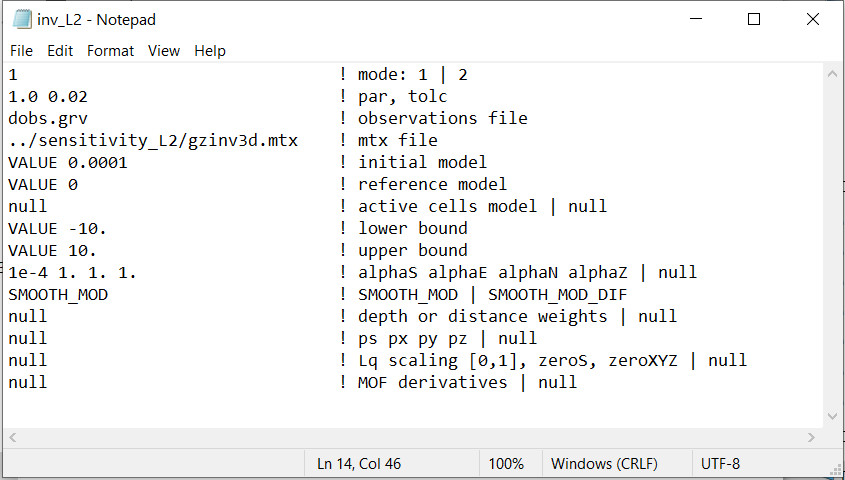
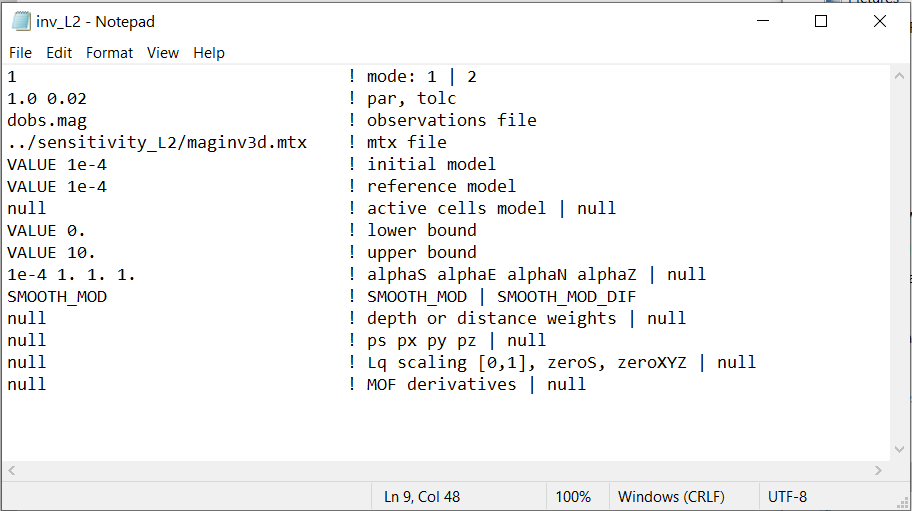
Finalize example

diff --git a/conf.py b/conf.py
@@ -35,9 +35,7 @@ sys.path.append(os.path.abspath('./_ext'))
 extensions = [
     'sphinx.ext.mathjax',
     'sphinxcontrib.bibtex',
-    'edit_on_github',
-    'purpose',
-    'example'
+    'edit_on_github'
 ]
 
 # Number figures

diff --git a/content/example/inv.rst b/content/example/inv.rst
@@ -5,16 +5,16 @@
 Inversion
 =========
 
-Here the code **gzinv3d_v60.exe** invert synthetic gravity anomaly data to recover a density contrast model. We perform both a smooth and a sparse inversion. We use the same data that were computed in :ref:`forward modeling example <example_fwd>`. Gaussian noise were added to these data with a standard deviation of 5e-4 mgal. Uncertainties of 5e-4 mgal were assigned to all data
+Here the code **maginv3d_v60.exe** invert synthetic magntic data to recover a susceptibility model. We perform both a smooth and a sparse inversion. We use the same data that were computed in :ref:`forward modeling example <example_fwd>`. Gaussian noise were added to these data with a standard deviation of 0.5 nT. Uncertainties of 0.5 nT were assigned to all data
 
 Before running this example, you may want to do the following:
 
-     - `Download and open the zip folder containing the entire grav3d example <https://github.com/ubcgif/grav3d/raw/master/assets/grav3d_example.zip>`__ (if not done already)
-     - Learn how to :ref:`run gzinv3d_v60 and learn the format of the input files <gzinv3d>`
+     - `Download and open the zip folder containing the entire mag3d example <https://github.com/ubcgif/mag3d/raw/master/assets/mag3d_example.zip>`__ (if not done already)
+     - Learn how to :ref:`run maginv3d_v60 and learn the format of the input files <maginv3d>`
 
 
 
-.. important:: Since the sensitivities output by **gzsen3d_v60.exe** produce a large file, we have not provided them in the zip file. You need to complete the :ref:`compute sensitivities <example_sensitivity>` example to run the inversion.
+.. important:: Since the sensitivities output by **magsen3d_v60.exe** produce a large file, we have not provided them in the zip file. You need to complete the :ref:`compute sensitivities <example_sensitivity>` example to run the inversion.
 
 
 Smooth Inversion

diff --git a/content/example/fwd.rst b/content/example/fwd.rst
@@ -1,19 +1,21 @@
 .. _example_fwd:
 
 
+.. note:: This example has been developed to demonstrate functionality specific to v6.0. The example can be completed using v5.0, however some functionality may not exist in v5.0 and the format of certain input files may differ slightly.
+
 Forward Modeling
 ================
 
-Here the code **gzfor3d.exe** is used to forward model the gravity anomaly for the mesh and density contrast model provided. We consider a ground-based survey with a uniform station spacing of 40 m.
+Here the code **magfor3d_v60.exe** is used to forward model the magnetic anomaly for the mesh and susceptibility model provided. We consider an airborne survey with a uniform station spacing of 40 m and a flight height of 30 m. The inclination, declination and background field intensity are 60 degrees, 25 degrees and 50,000 nT, respectively.
 
 Files relevant to this part of the example are in the sub-folder *fwd*. We used the same model that was created in the :ref:`create model <example_model>` section. Before running this example, you may want to do the following:
 
-	- `Download and open the zip folder containing the entire grav3d example <https://github.com/ubcgif/grav3d/raw/master/assets/grav3d_example.zip>`__ (if not done already)
-	- Learn how to run :ref:`gzfor3d<gzfor3d>`
+	- `Download and open the zip folder containing the entire mag3d example <https://github.com/ubcgif/mag3d/raw/master/assets/mag3d_example.zip>`__ (if not done already)
+	- Learn how to run :ref:`magfor3d_v60 <magfor3d>`
 	- There is no input file
 
 
-The resulting gravity anomaly (mgal) is shown below. According to the convention used by *grav3d*, a positive density contrast results in a positive gravity anomaly.
+The total magnetic intensity anomaly (nT) is shown below.
 
 
 .. figure:: images/fwd_anomaly.png

diff --git a/content/example/sensitivity.rst b/content/example/sensitivity.rst
@@ -6,12 +6,12 @@
 Computing Sensitivities
 =======================
 
-Here the code **gzsen3d_v60.exe** is used to compute and output the sensitivities for use in the inversion. Here, we generate we use the input file **sensitivity_L2.inp** to generate sensitivities for a standard smooth inversion. We then use the input file **sensitivity_sparse.inp** to generate sensitivities that can be used for sparse inversion.
+Here the code **magsen3d_v60.exe** is used to compute and output the sensitivities for use in the inversion. Here, we generate we use the input file **sensitivity_L2.inp** to generate sensitivities for a standard smooth inversion. We then use the input file **sensitivity_sparse.inp** to generate sensitivities that can be used for sparse inversion.
 
 Before running this example, you may want to do the following:
 
-	- `Download and open the zip folder containing the entire grav3d example <https://github.com/ubcgif/grav3d/raw/master/assets/grav3d_example.zip>`__ (if not done already)
-	- Learn how to :ref:`compute sensitivities and learn the format of the input files <gzsen3d>`
+	- `Download and open the zip folder containing the entire mag3d example <https://github.com/ubcgif/mag3d/raw/master/assets/mag3d_example.zip>`__ (if not done already)
+	- Learn how to :ref:`compute sensitivities and learn the format of the input files <magsen3d>`
 
 
 Smooth Inversion

diff --git a/content/example/weights.rst b/content/example/weights.rst
@@ -6,7 +6,7 @@ Depth/Distance Weighting
 
 Here the code **pfweight.exe** and the input file **pfweight.inp** is used to generate distance weighting for the inversion. Files relevant to this part of the example are in the sub-folder *pfweights*. Before running this example, you may want to do the following:
 
-	- `Download and open the zip folder containing the entire grav3d example <https://github.com/ubcgif/grav3d/raw/master/assets/grav3d_example.zip>`__ (if not done already)
+	- `Download and open the zip folder containing the entire mag3d example <https://github.com/ubcgif/mag3d/raw/master/assets/mag3d_example.zip>`__ (if not done already)
 	- Learn how to :ref:`run pfweight and learn the format of the input files <pfweight>`
 
 

diff --git a/content/elements.rst b/content/elements.rst
@@ -31,7 +31,6 @@ There are seven general files which are used in MAG3D. All are in ASCII text for
     Mesh <files/meshfile>
     Topography <files/topo>
     Observation/Location <files/magfile>
-    Model <files/model>
+    Model <files/modelfile>
     Weighting <files/weight>
-    Active model <files/model>
 
